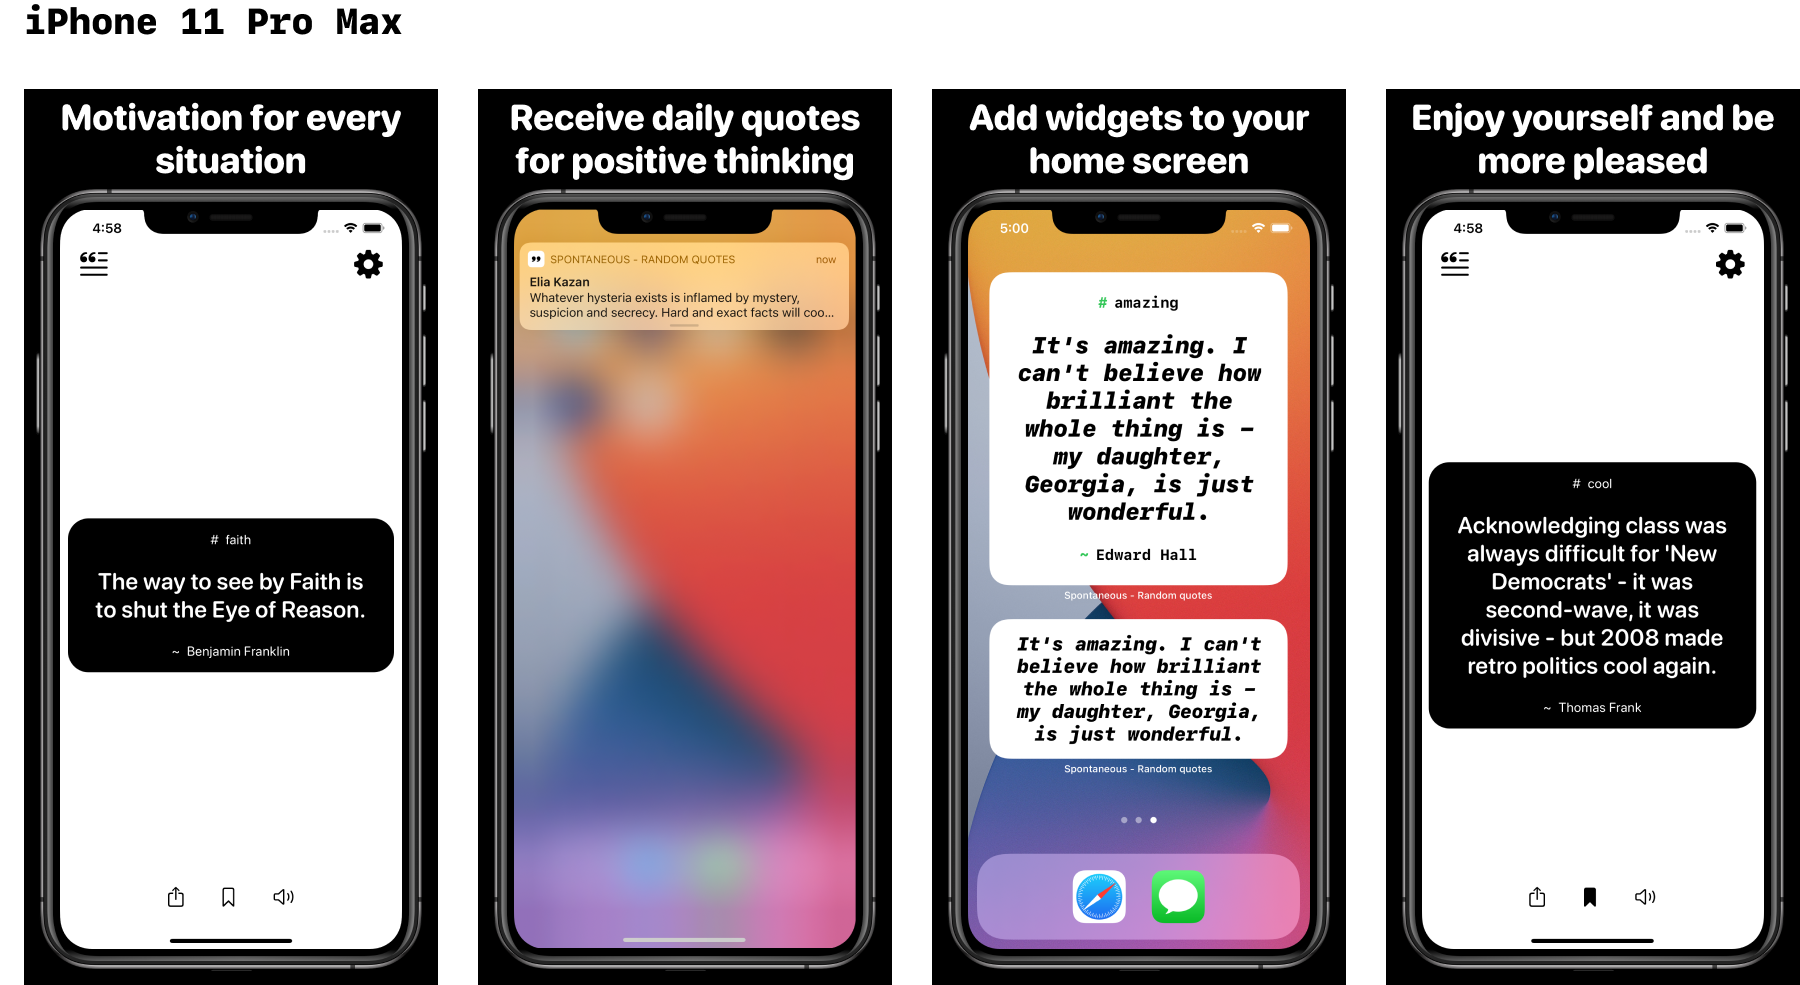
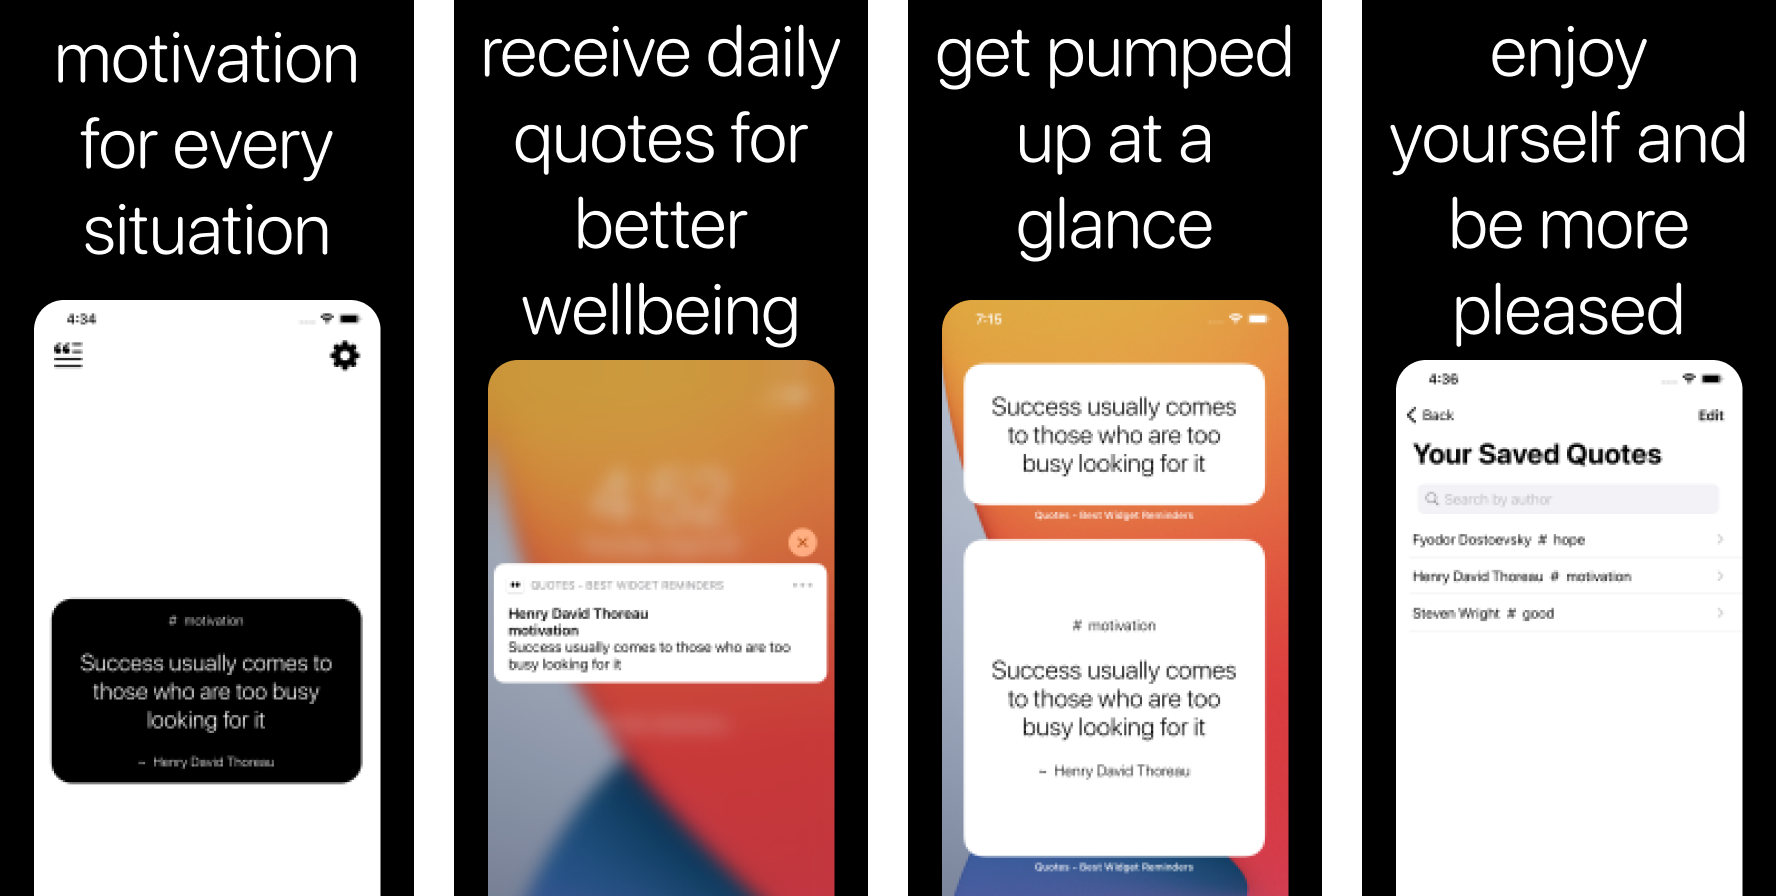
- potential reminder fix

diff --git a/QuoteGarden/Quotes/QuoteViewModel.swift b/QuoteGarden/Quotes/QuoteViewModel.swift
@@ -6,6 +6,9 @@ class QuoteViewModel: ObservableObject {
     #warning("Tap here or shake your device to generate a random quote!")
     @Published var quote = Quote(id: "", quoteText: "Tap here to generate a random quote", quoteAuthor: "Nikola Franičević", quoteGenre: "help")
     
+    // MARK: - Screenshots
+//    @Published var quote = Quote(id: "", quoteText: "Success usually comes to those who are too busy looking for it", quoteAuthor: "Henry David Thoreau", quoteGenre: "motivation")
+    
     init() {
         print("initialising QuoteViewModel")
     }
@@ -28,9 +31,8 @@ class QuoteViewModel: ObservableObject {
                 self.quote = response.data[randomQuote]
             }
         }.resume()
-        
     }
-    
+    #warning("pregledaj ovu funkcije jer kad idu sve jedna za drugom onda raadi, a kad nisu nego svako par sati onda niš!")
     func getRandomQuotes(withCompletionHandler completionHandler: @escaping ([Quote]) -> Void) {
         let randomPage = Int.random(in: 1..<2)
         var randomQuote = Int.random(in: 0..<36335)
@@ -46,19 +48,18 @@ class QuoteViewModel: ObservableObject {
                 return
             }
             DispatchQueue.main.async {
-                // Appends 100 quotes
-                for _ in 1...100 {
+                // Appends 50 quotes
+                #warning("When it is set to 100 it doesn't work...")
+                for _ in 1...50 {
                     self.quotes.append(response.data[randomQuote])
                     randomQuote = Int.random(in: 0..<36335)
                 }
                 completionHandler(self.quotes)
             }
         }.resume()
-        
     }
     
     func changeQuote(_ quote: Quote) {
         self.quote = quote
-        
     }
 }

diff --git a/QuoteGarden/Reminders/NotificationManager.swift b/QuoteGarden/Reminders/NotificationManager.swift
@@ -21,6 +21,10 @@ class NotificationManager: ObservableObject {
                     print("Adding notification by: \(quote.quoteAuthor) to notification array!")
                 }
             }
+            
+            // MARK: - Screenshots
+//            self.addNotification(id: UUID().uuidString, title: "Henry David Thoreau", subtitle: "motivation", body: "Success usually comes to those who are too busy looking for it", timeInterval: 3.0)
+//            self.addNotification(id: UUID().uuidString, title: "John Wooden", subtitle: "success", body: "Success is peace of mind, which is a direct result of self-satisfaction in knowing you made the effort to become the best of which you are capable", timeInterval: 5.0)
         }
     }
     
@@ -87,8 +91,8 @@ class NotificationManager: ObservableObject {
                     in: \(String(describing: notification.timeInterval / 3600)) hours
                     """)
             }
-            notifications.removeAll()
         }
+        notifications.removeAll()
     }
     
 }
